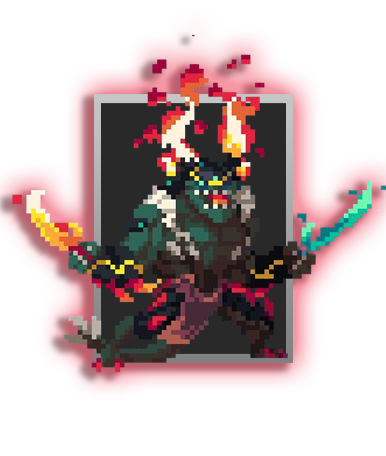
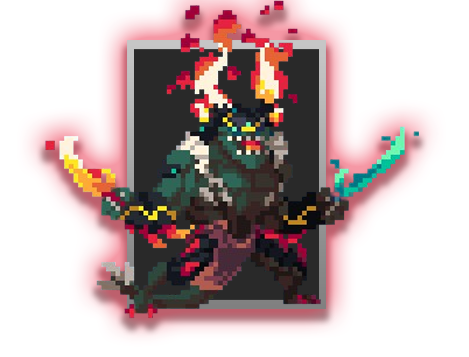
"Changed the Character Selection OFF Screen, and added Auricannon Hover"

diff --git a/MimalaFinal/MimalaFinal/src/state/CharacterSelection.java b/MimalaFinal/MimalaFinal/src/state/CharacterSelection.java
@@ -21,7 +21,7 @@ public class CharacterSelection extends JPanel {
     public CharacterSelection(JFrame frame, String mode) {
         this.frame = frame;
         this.mode = mode;
-        characterSelectionBg = new ImageIcon("MimalaFinal\\MimalaFinal\\src\\assets\\CharacterSelectionScreen\\Character_off\\Characters_off.png");
+        characterSelectionBg = new ImageIcon("C:\\Users\\User\\IdeaProjects\\MimalaFinal\\MimalaFinal\\MimalaFinal\\src\\assets\\CharacterSelectionScreen\\CharacterSelectOff.png");
 
         setLayout(null);  // Absolute layout
         setPreferredSize(new Dimension(1920, 1080));
@@ -29,19 +29,15 @@ public class CharacterSelection extends JPanel {
     }
 
     private void setupButtons() {
-        // Add the off (background) button first, as it is static and common for all characters
-        JLabel offButton = createOffButton();
-        add(offButton);
-
         // Create hover buttons for each character
-        createCharacterButton("Pyrothar", "MimalaFinal\\MimalaFinal\\src\\assets\\CharacterSelectionScreen\\Character_hover\\Pyrothar_hover.png", 280, 205);
-        createCharacterButton("Azurox", "MimalaFinal\\MimalaFinal\\src\\assets\\CharacterSelectionScreen\\Character_hover\\Azurox_hover.png", 590, 205);
-        createCharacterButton("Zenfang", "MimalaFinal\\MimalaFinal\\src\\assets\\CharacterSelectionScreen\\Character_hover\\Zenfang_hover.png", 905, 205);
-        createCharacterButton("Auricannon", "MimalaFinal\\MimalaFinal\\src\\assets\\CharacterSelectionScreen\\Character_hover\\Aurelix_hover.png", 1220, 205);
-        createCharacterButton("Vexmorth", "MimalaFinal\\MimalaFinal\\src\\assets\\CharacterSelectionScreen\\Character_hover\\Vexmorth_hover.png", 280, 555);
-        createCharacterButton("Astridra", "MimalaFinal\\MimalaFinal\\src\\assets\\CharacterSelectionScreen\\Character_hover\\Astrida_hover.png", 603, 555);
-        createCharacterButton("Varkos", "MimalaFinal\\MimalaFinal\\src\\assets\\CharacterSelectionScreen\\Character_hover\\Varkos_hover.png", 925, 548);
-        createCharacterButton("Ignisveil", "MimalaFinal\\MimalaFinal\\src\\assets\\CharacterSelectionScreen\\Character_hover\\Ignisveil_hover.png", 1240, 553);
+        createCharacterButton("Pyrothar", "MimalaFinal\\MimalaFinal\\src\\assets\\CharacterSelectionScreen\\Character_hover\\Pyrothar_hover.png", 273, 199);
+        createCharacterButton("Azurox", "MimalaFinal\\MimalaFinal\\src\\assets\\CharacterSelectionScreen\\Character_hover\\Azurox_hover.png", 583, 197);
+        createCharacterButton("Zenfang", "MimalaFinal\\MimalaFinal\\src\\assets\\CharacterSelectionScreen\\Character_hover\\Zenfang_hover.png", 902, 197);
+        createCharacterButton("Auricannon", "MimalaFinal\\MimalaFinal\\src\\assets\\CharacterSelectionScreen\\Character_hover\\Auricannon_hover.png", 1145, 276);
+        createCharacterButton("Vexmorth", "MimalaFinal\\MimalaFinal\\src\\assets\\CharacterSelectionScreen\\Character_hover\\Vexmorth_hover.png", 273, 545);
+        createCharacterButton("Astridra", "MimalaFinal\\MimalaFinal\\src\\assets\\CharacterSelectionScreen\\Character_hover\\Astrida_hover.png", 599, 545);
+        createCharacterButton("Varkos", "MimalaFinal\\MimalaFinal\\src\\assets\\CharacterSelectionScreen\\Character_hover\\Varkos_hover.png", 885, 598);
+        createCharacterButton("Ignisveil", "MimalaFinal\\MimalaFinal\\src\\assets\\CharacterSelectionScreen\\Character_hover\\Ignisveil_hover.png", 1234, 545);
     }
 
     private void createCharacterButton(String characterName, String hoverImagePath, int x, int y) {
@@ -118,14 +114,6 @@ public class CharacterSelection extends JPanel {
     private String selectRandomCharacter() {
         Random random = new Random();
         return characterNames[random.nextInt(characterNames.length)];
-    }
-
-    private JLabel createOffButton() {
-        // Create and position the off button (background image)
-        ImageIcon offIcon = new ImageIcon("MimalaFinal\\MimalaFinal\\src\\assets\\CharacterSelectionScreen\\Character_off\\Characters_off.png");
-        JLabel offButton = new JLabel(offIcon);
-        offButton.setBounds(0, 0, getWidth(), getHeight()); // Cover the entire screen with the off image
-        return offButton;
     }
 
     @Override
